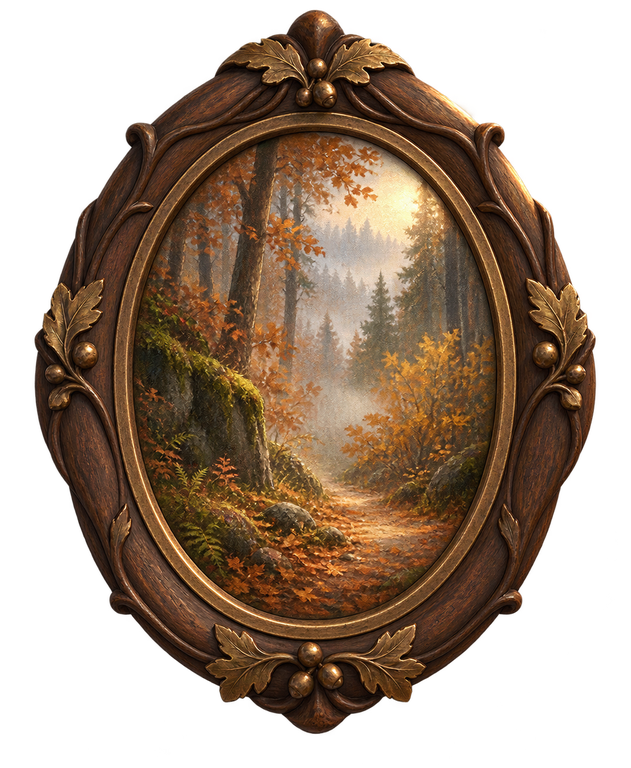
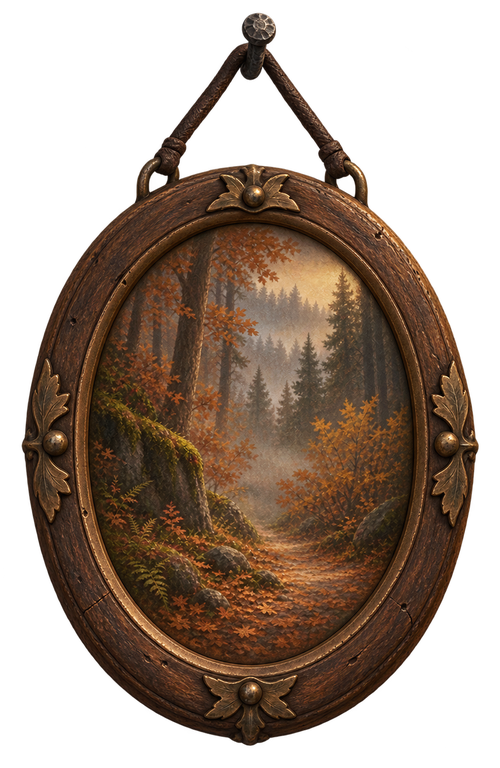
Уточнить глубину предметов домика

diff --git a/companion.css b/companion.css
@@ -26,18 +26,18 @@ body.fox-drawer-open #overlay .scrim{z-index:60}
 /* Предметы домика: фиксированные зоны сохраняют глубину и не дают вещам наезжать друг на друга. */
 .fox-items{position:absolute;inset:0;pointer-events:none;overflow:visible}
 .fox-items-back{z-index:1}.fox-items-front{z-index:4}
-.fox-item{position:absolute;display:block;width:auto;height:auto;max-width:none;object-fit:contain;filter:drop-shadow(0 5px 6px #09060466)}
-.fox-item-garland{left:-17%;top:-5%;width:134%}
-.fox-item-painting{left:-4%;top:10%;width:32%}
-.fox-item-lamp{left:-2%;bottom:9%;width:29%}
+.fox-item{--fox-item-blur:0px;position:absolute;display:block;width:auto;height:auto;max-width:none;object-fit:contain;filter:blur(var(--fox-item-blur)) drop-shadow(0 5px 6px #09060466)}
+.fox-items-back .fox-item{--fox-item-blur:.45px}
+.fox-item-garland{left:-17%;top:-5%;width:134%;--fox-item-blur:.55px}
+.fox-item-painting{left:2%;top:8%;width:23%;--fox-item-blur:.75px;transform:rotate(-4deg);opacity:.92}
+.fox-item-lamp{left:1%;bottom:15%;width:25%;--fox-item-blur:.65px}
 .fox-item-tea{left:2%;bottom:1%;width:27%}
-.fox-item-books{right:-1%;bottom:7%;width:36%}
-.fox-item-plant{right:-2%;bottom:15%;width:33%}
-.fox-item-blanket{left:8%;bottom:-5%;width:84%}
-.fox-item-cushion{left:5%;bottom:-12%;width:90%}
-.fox-stage.has-cushion .fox-actor{bottom:10%}
+.fox-item-books{right:2%;bottom:12%;width:31%;--fox-item-blur:1.05px}
+.fox-item-plant{right:-1%;bottom:17%;width:30%;--fox-item-blur:.75px}
+.fox-item-blanket{left:8%;bottom:-5%;width:84%;--fox-item-blur:.15px}
+.fox-item-cushion{left:25%;bottom:13%;width:58%;--fox-item-blur:.8px;opacity:.94}
 .fox-stage.has-blanket .fox-actor{bottom:8%}
-.fox-stage.has-cushion .fox-actor::before,.fox-stage.has-blanket .fox-actor::before{opacity:.55}
+.fox-stage.has-blanket .fox-actor::before{opacity:.55}
 /* без кроссфейда: два полупрозрачных края друг над другом дают ореол; переключение идёт жёстко на кадре покоя */
 .fox-clip{position:absolute;inset:0;width:100%;height:100%;object-fit:contain;z-index:1;filter:sepia(.14) saturate(1.05) drop-shadow(0 5px 7px #0007);background:transparent;opacity:0}
 .fox-clip.on{opacity:1}
